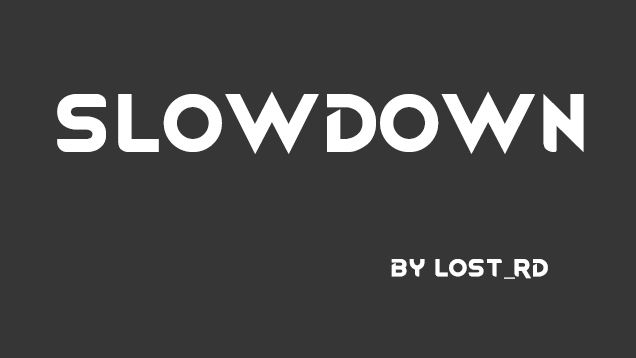
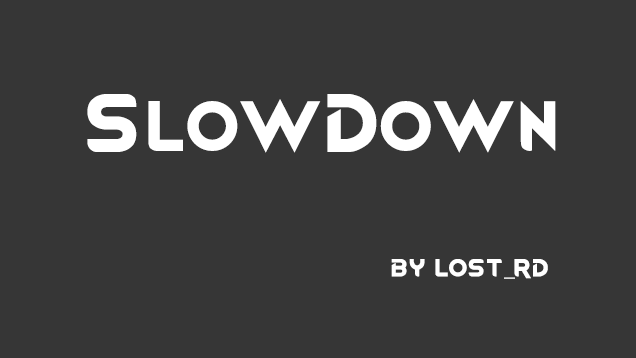
Added a keybind to toggle the mod, updated the preview image

Changed region(s): [[0.0896, 0.2458, 0.5377, 0.4302], [0.5975, 0.2458, 0.9261, 0.4302]]

diff --git a/Source/SlowDown/Component.cs b/Source/SlowDown/Component.cs
@@ -1,0 +1,40 @@
+using System;
+using Verse;
+using UnityEngine;
+
+namespace RD_SlowDown
+{
+	public class SlowDown : GameComponent
+	{
+		internal KeyBindingDef toggleKey;
+
+		public SlowDown()
+		{
+			Log.Message("[RD_SlowDown] I never saw this message in testing, lucky you!");
+		}
+
+		public SlowDown( Game game )
+		{
+			toggleKey = KeyBindingDef.Named("SlowDown");
+		}
+
+		public override void GameComponentOnGUI()
+		{
+			try
+			{
+				if (Event.current.type == EventType.KeyDown)
+				{
+					if (toggleKey.KeyDownEvent)
+					{
+						Settings.Toggle();
+						Event.current.Use();
+					}
+				}
+			}
+			catch (Exception e)
+			{
+				Log.Error(e.ToString());
+			}
+		}
+	}
+}

diff --git a/Source/SlowDown/Main.cs b/Source/SlowDown/Main.cs
@@ -8,8 +8,10 @@ namespace RD_SlowDown
 	{
 		static Main()
 		{
+			Log.Message("[RD_SlowDown] Initialising mod...");
 			var harmony = HarmonyInstance.Create("org.rd.slowdown");
 			harmony.PatchAll(System.Reflection.Assembly.GetExecutingAssembly());
+			Log.Message("[RD_SlowDown] Done!");
 		}
 	}
 
@@ -96,7 +98,7 @@ namespace RD_SlowDown
 			} else {
 				__result = 1 / (60f * __instance.TickRateMultiplier);
 			}
-			Log.Message(__result.ToString()+", "+Settings.EnableMod.ToString());
+			//Log.Message(__result.ToString()+", "+Settings.EnableMod.ToString());
 			return false;
 		}
 	}

diff --git a/Source/SlowDown/Settings.cs b/Source/SlowDown/Settings.cs
@@ -4,7 +4,13 @@ namespace RD_SlowDown
 {
 	public class Settings : ModSettings
 	{
-		internal static bool EnableMod = true;
+		internal static bool EnableMod = false;
+
+		public static void Toggle()
+		{
+			EnableMod = !EnableMod;
+			//Log.Message("[RD_SlowDown] toggling mod");
+		}
 
 		public override void ExposeData()
 		{
